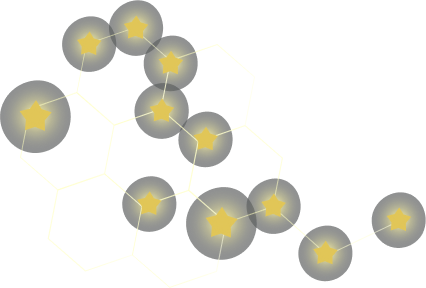
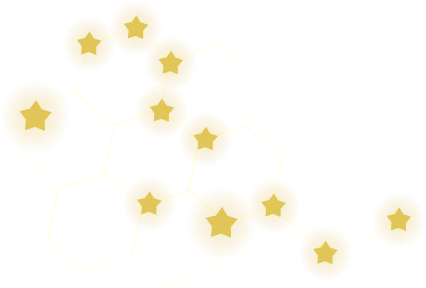
07

diff --git a/style.css b/style.css
@@ -9,7 +9,7 @@ body {
   margin: 0;
   padding: 0;
   font-family: "Manrope", sans-serif;
-  background: #0b1736; /* màu nền tối */
+  background: #061238; /* màu nền tối */
   color: #fff;
 }
 header {
@@ -39,18 +39,78 @@ header img {
   justify-content: flex-end;
   min-height: 480px;
   box-shadow: 0 10px 20px rgba(0, 0, 0, .2);
-  font-size: 32px;
+  font-size: 28px;
   font-weight: 300;
+  transition: all 0.3s ease-in-out;
+  position: relative;
 }
 .card.blue {
   background: #2196f3;
   margin-top: 240px;
+  margin-left: 0;
+  z-index: 1;
+}
+.boy1 {
+  height: 200px;
+  position: absolute;
+  top: -160px;
+  right: 200px;
+  animation: boy1_transition 3s ease-in-out infinite;
+}
+.boy2 {
+  position: absolute;
+  top: -180px;
+  left: 48px;
+  height: 240px;
+  animation: boy2_transition 3s ease-in-out infinite;
+}
+.yellow_planet {
+  height: 240px;
+  position: absolute;
+  top: -300px;
+  right: 0;
+  animation: yellow_planet_scale 3s ease-in-out infinite;
+}
+.planet {
+  height: 200px;
+  position: absolute;
+  top: -120px;
+  right: 0;
+}
+@keyframes yellow_planet_scale {
+  0%, 100% {
+    transform: scale(1);
+  }
+  50% {
+    transform: scale(1.2);
+  }
+}
+@keyframes boy1_transition {
+  0%, 100% {
+    transform: translateX(0);
+  }
+  50% {
+    transform: translateX(-24px);
+  }
+}
+@keyframes boy2_transition {
+  0%, 100% {
+    transform: translateX(0);
+  }
+  50% {
+    transform: translateX(24px);
+  }
 }
 .card.green {
   background: #4caf50;
   min-height: 560px;
   margin-left: -40px;
   margin-top: 160px;
+  z-index: 2;
+}
+.card.blue:hover,
+.card.green:hover {
+  transform: translateX(-24px);
 }
 .card.green ul {
   padding-left: 24px;
@@ -67,11 +127,12 @@ header img {
   min-height: 720px;
   margin-left: -40px;
   color: #fff;
+  z-index: 3;
 }
 .card h2 {
   margin-top: 0;
   margin-bottom: 48px;
-  font-size: 48px;
+  font-size: 40px;
   font-weight: 700;
   letter-spacing: -2px;
   line-height: 120%;
@@ -89,14 +150,100 @@ header img {
   letter-spacing: -2px;
   text-decoration: none;
   margin-top: 48px;
-}
-
-.illustrations {
+  overflow: hidden;
   position: relative;
-  margin-bottom: 40px;
-  text-align: center;
 }
-.illustrations img {
-  width: 120px;
-  margin: 0 20px;
-}/*# sourceMappingURL=style.css.map */
+.s01btn span {
+  dis
+}
+.s01btn:hover > span {
+  display: inline-block;
+  animation: s01btn_span 1s ease-in-out infinite;
+}
+@keyframes s01btn_span {
+  0%, 100% {
+    transform: translateX(0);
+  }
+  50% {
+    transform: translateX(12px);
+  }
+}
+.s01btn::before {
+  content: '';
+  position: absolute;
+  top: -50%;
+  left: -50%;
+  width: 200%;
+  height: 200%;
+  background: linear-gradient(
+    0deg, 
+    transparent, 
+    transparent 30%, 
+    rgba(17,85,208,0.2)
+  );
+  transform: rotate(-45deg);
+  transition: all 0.3s ease-in-out;
+  opacity: 0;
+}
+.s01btn:hover::before {
+  opacity: 1;
+  transform: rotate(-45deg) translateY(150%);
+}
+.s01btn::after {
+  content: '';
+  position: absolute;
+  top: -100px;
+  left: -100px;
+  width: 100px;
+  height: 100px;
+  filter: blur(10px);
+  background:rgba(17,85,208,0.2);
+  opacity: 0;
+  transition: all 0.5s ease-in-out;
+}
+.s01btn:hover::after {
+  opacity: 1;
+  top: -50px;
+  left: -50px;
+}
+.bg_pattern {
+  position: absolute;
+  z-index: 1;
+  width: 100%;
+  height: 100vh;
+  overflow: hidden;
+  top: 0;
+  left: 0;
+}
+.circleS {
+  width: 960px;
+  height: 960px;
+  background-color: rgba(255, 255, 255, .02);
+  border-radius: 50%;
+  position: absolute;
+  top: 50%;
+  left: 25%;
+}
+.circleM {
+  width: 1440px;
+  height: 1440px;
+  background-color: rgba(255, 255, 255, .02);
+  border-radius: 50%;
+  position: absolute;
+  top: calc(100% - 720px);
+  left: calc(50% - 720px);
+}
+.circleL {
+  width: 1920px;
+  height: 1920px;
+  background-color: rgba(255, 255, 255, .02);
+  border-radius: 50%;
+  position: absolute;
+  top: calc(100% - 960px);
+  left: 0;
+}
+.stars {
+  position: absolute;
+  bottom: -24px;
+  left: calc(50% - 213px);
+}

diff --git a/home.html b/home.html
@@ -1,38 +1,62 @@
 <!DOCTYPE html>
 <html lang="vi">
-<head>
-  <meta charset="UTF-8">
-  <meta name="viewport" content="width=device-width, initial-scale=1.0">
-  <title>Grid Layout Demo</title>
-  <link rel="stylesheet" href="style.css">
-  <link rel="preconnect" href="https://fonts.googleapis.com">
-<link rel="preconnect" href="https://fonts.gstatic.com" crossorigin>
-<link href="https://fonts.googleapis.com/css2?family=Manrope:wght@200..800&display=swap" rel="stylesheet">
-</head>
-<body>
-  <header>
-    <img src="assets/logo.png" alt="">
-  </header>
+  <head>
+    <meta charset="UTF-8" />
+    <meta name="viewport" content="width=device-width, initial-scale=1.0" />
+    <title>Grid Layout Demo</title>
+    <link rel="stylesheet" href="style.css" />
+    <link rel="preconnect" href="https://fonts.googleapis.com" />
+    <link rel="preconnect" href="https://fonts.gstatic.com" crossorigin />
+    <link
+      href="https://fonts.googleapis.com/css2?family=Manrope:wght@200..800&display=swap"
+      rel="stylesheet"
+    />
+  </head>
+  <body>
+    <header>
+      <img src="assets/logo.png" alt="" />
+    </header>
 
-  <div class="container">
-    <div class="card blue">
-      <h2>Nuôi con không phải cuộc chiến</h2>
-      <p>Khi bạn có cái nhìn sâu sắc hơn về con, hành trình nuôi dưỡng sẽ trở nên nhẹ nhàng hơn.</p>
+    <div class="container">
+      <div class="card blue">
+        <h2>Nuôi con không phải cuộc chiến</h2>
+        <p>
+          Khi bạn có cái nhìn sâu sắc hơn về con, hành trình nuôi dưỡng sẽ trở
+          nên nhẹ nhàng hơn.
+        </p>
+        <img class="yellow_planet" src="assets/yellow_planet.png" alt="" />
+        <img class="boy1" src="assets/boy1.png" alt="" />
+      </div>
+
+      <div class="card green">
+        <h2>Hãy ghi nhớ!</h2>
+        <ul>
+          <li>Không có câu trả lời đúng hay sai, tốt hay xấu!</li>
+          <li>
+            Trả lời dựa trên sự quan sát của bạn, không phải theo hướng bạn nghĩ
+            con nên như vậy
+          </li>
+        </ul>
+        <img class="boy2" src="assets/boy2.png" alt="" />
+      </div>
+
+      <div class="card orange">
+        <p>
+          Hãy khám phá thế giới tiềm năng nghề nghiệp của con qua 5 câu hỏi thú
+          vị sau đây nhé!
+        </p>
+        <a href="#" class="button s01btn"
+          >Bắt đầu <span>→</span> <br />
+          bài trắc nghiệm</a
+        >
+        <img class="planet" src="assets/planet.png" alt="" />
+      </div>
     </div>
-
-    <div class="card green">
-      <h2>Hãy ghi nhớ!</h2>
-      <ul>
-        <li>Không có câu trả lời đúng hay sai, tốt hay xấu!</li>
-        <li>Trả lời dựa trên sự quan sát của bạn, không phải theo hướng bạn nghĩ con nên như vậy</li>
-      </ul>
+    <div class="bg_pattern">
+      <div class="circleS"></div>
+      <div class="circleM"></div>
+      <div class="circleL"></div>
+      <img class="stars" src="assets/stars.png" alt="" />
     </div>
-
-    <div class="card orange">
-      <p>Hãy khám phá thế giới tiềm năng nghề nghiệp của con qua 5 câu hỏi thú vị sau đây nhé!</p>
-      <a href="#" class="button s01btn">Bắt đầu → <br> bài trắc nghiệm</a>
-    </div>
-  </div>
-
-</body>
+  </body>
 </html>
